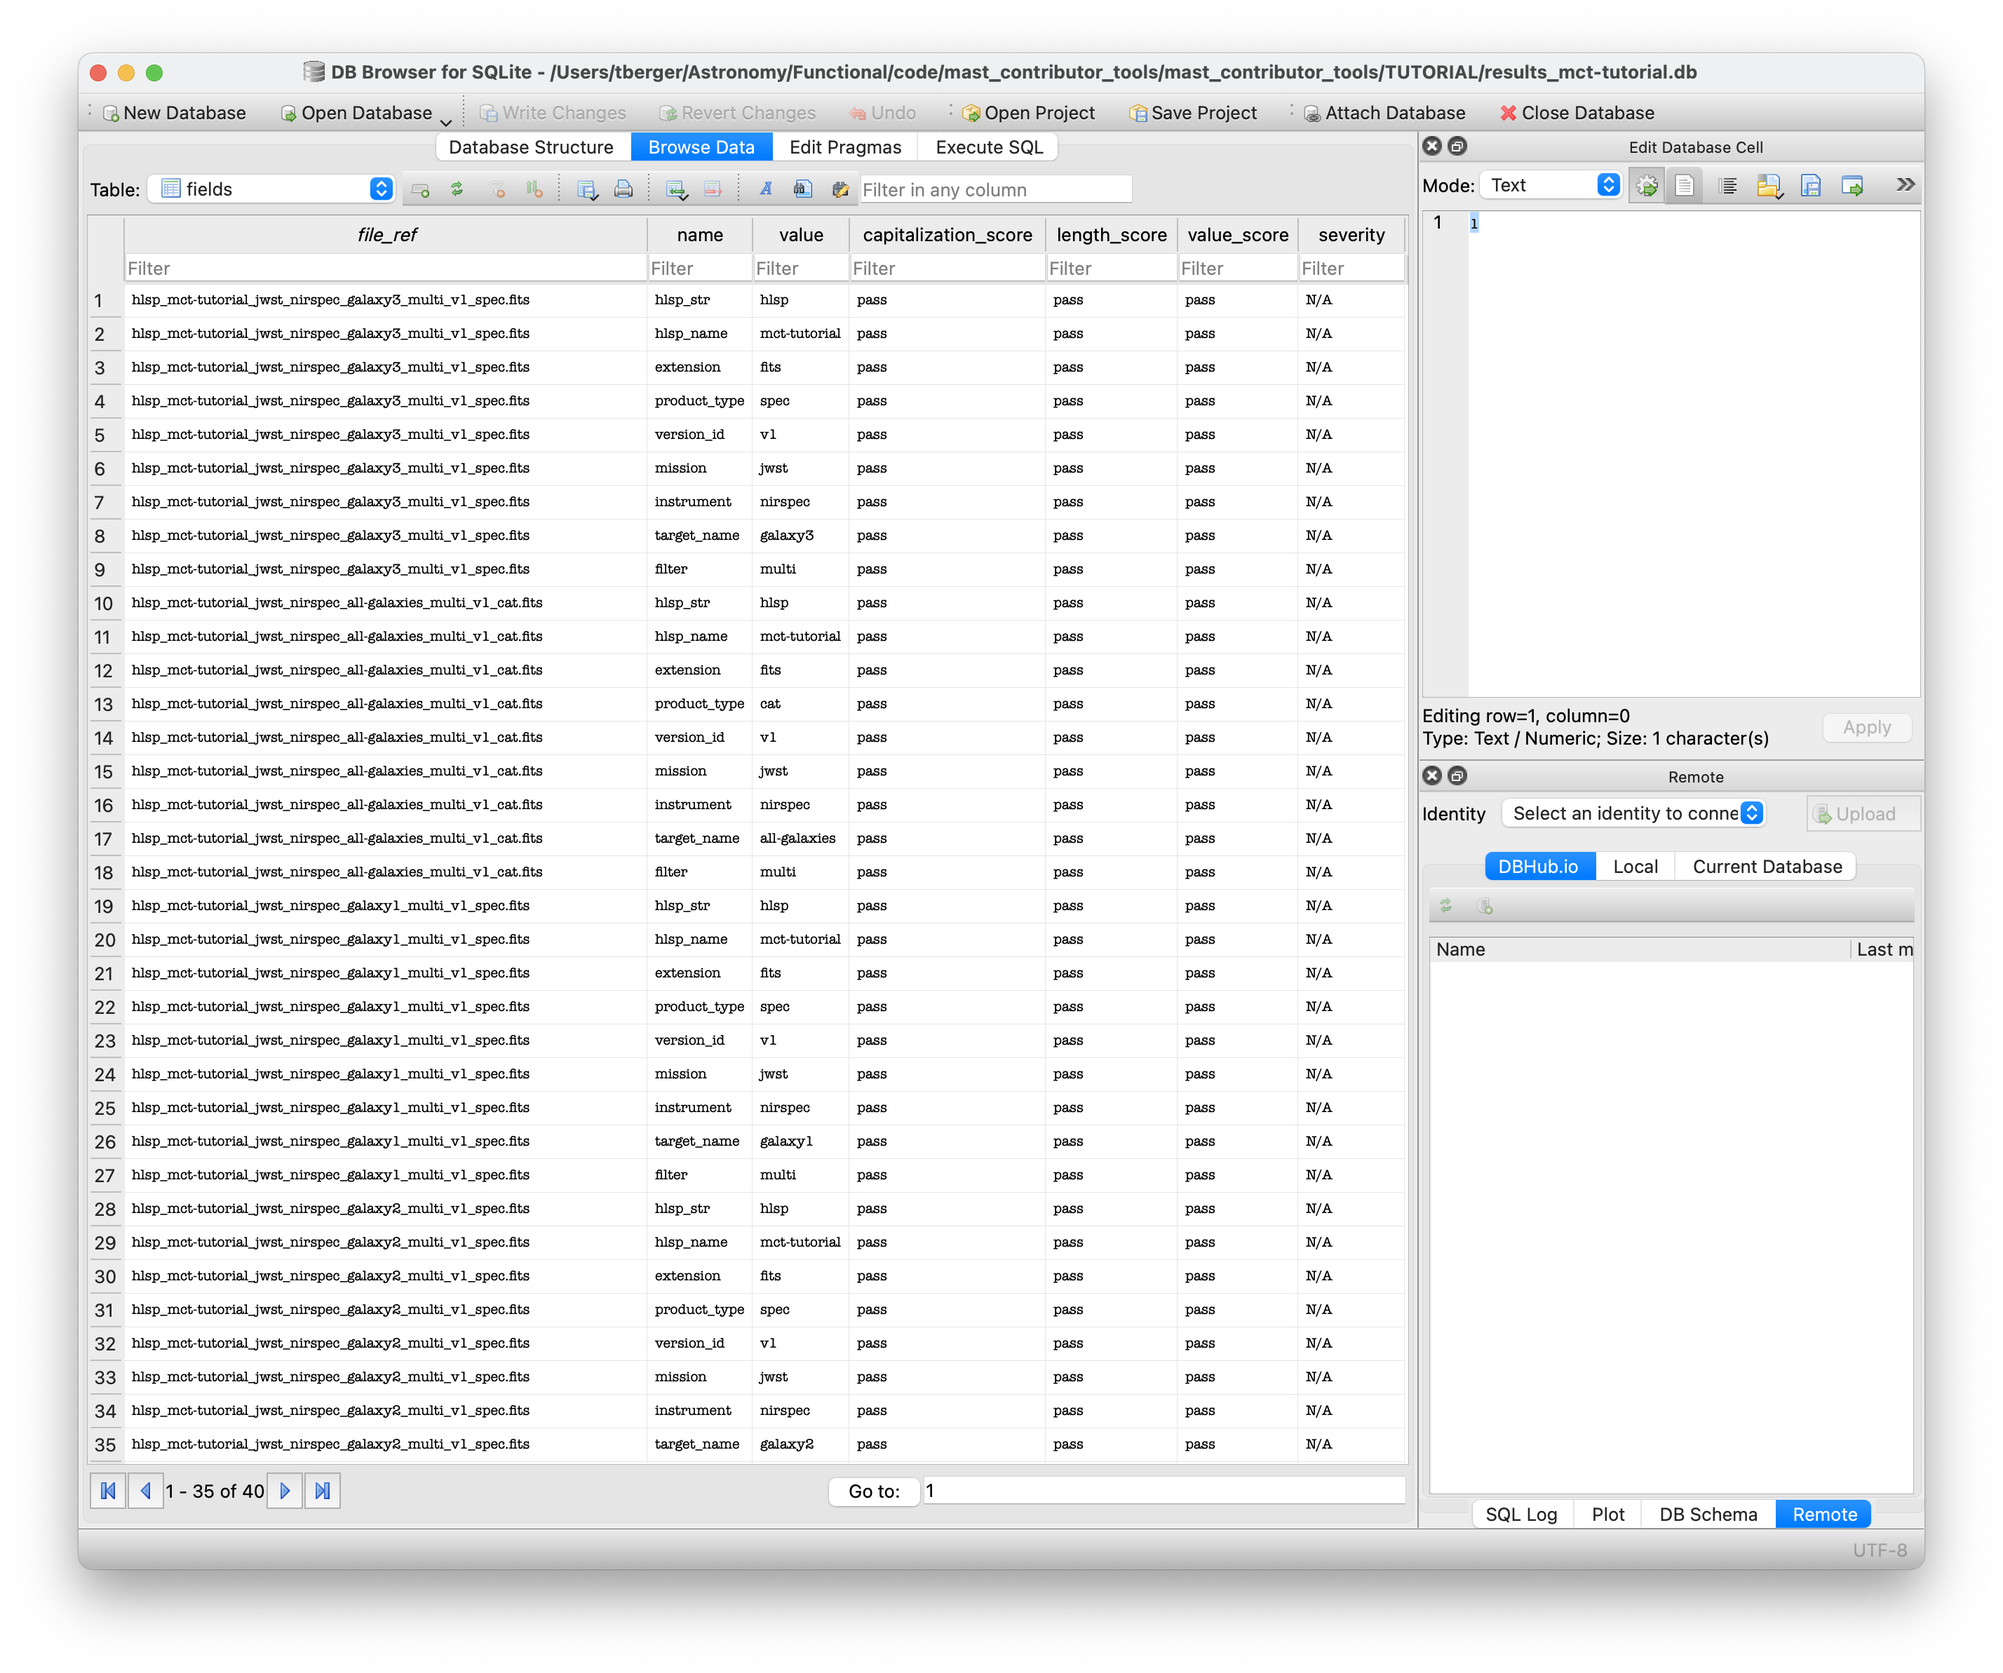
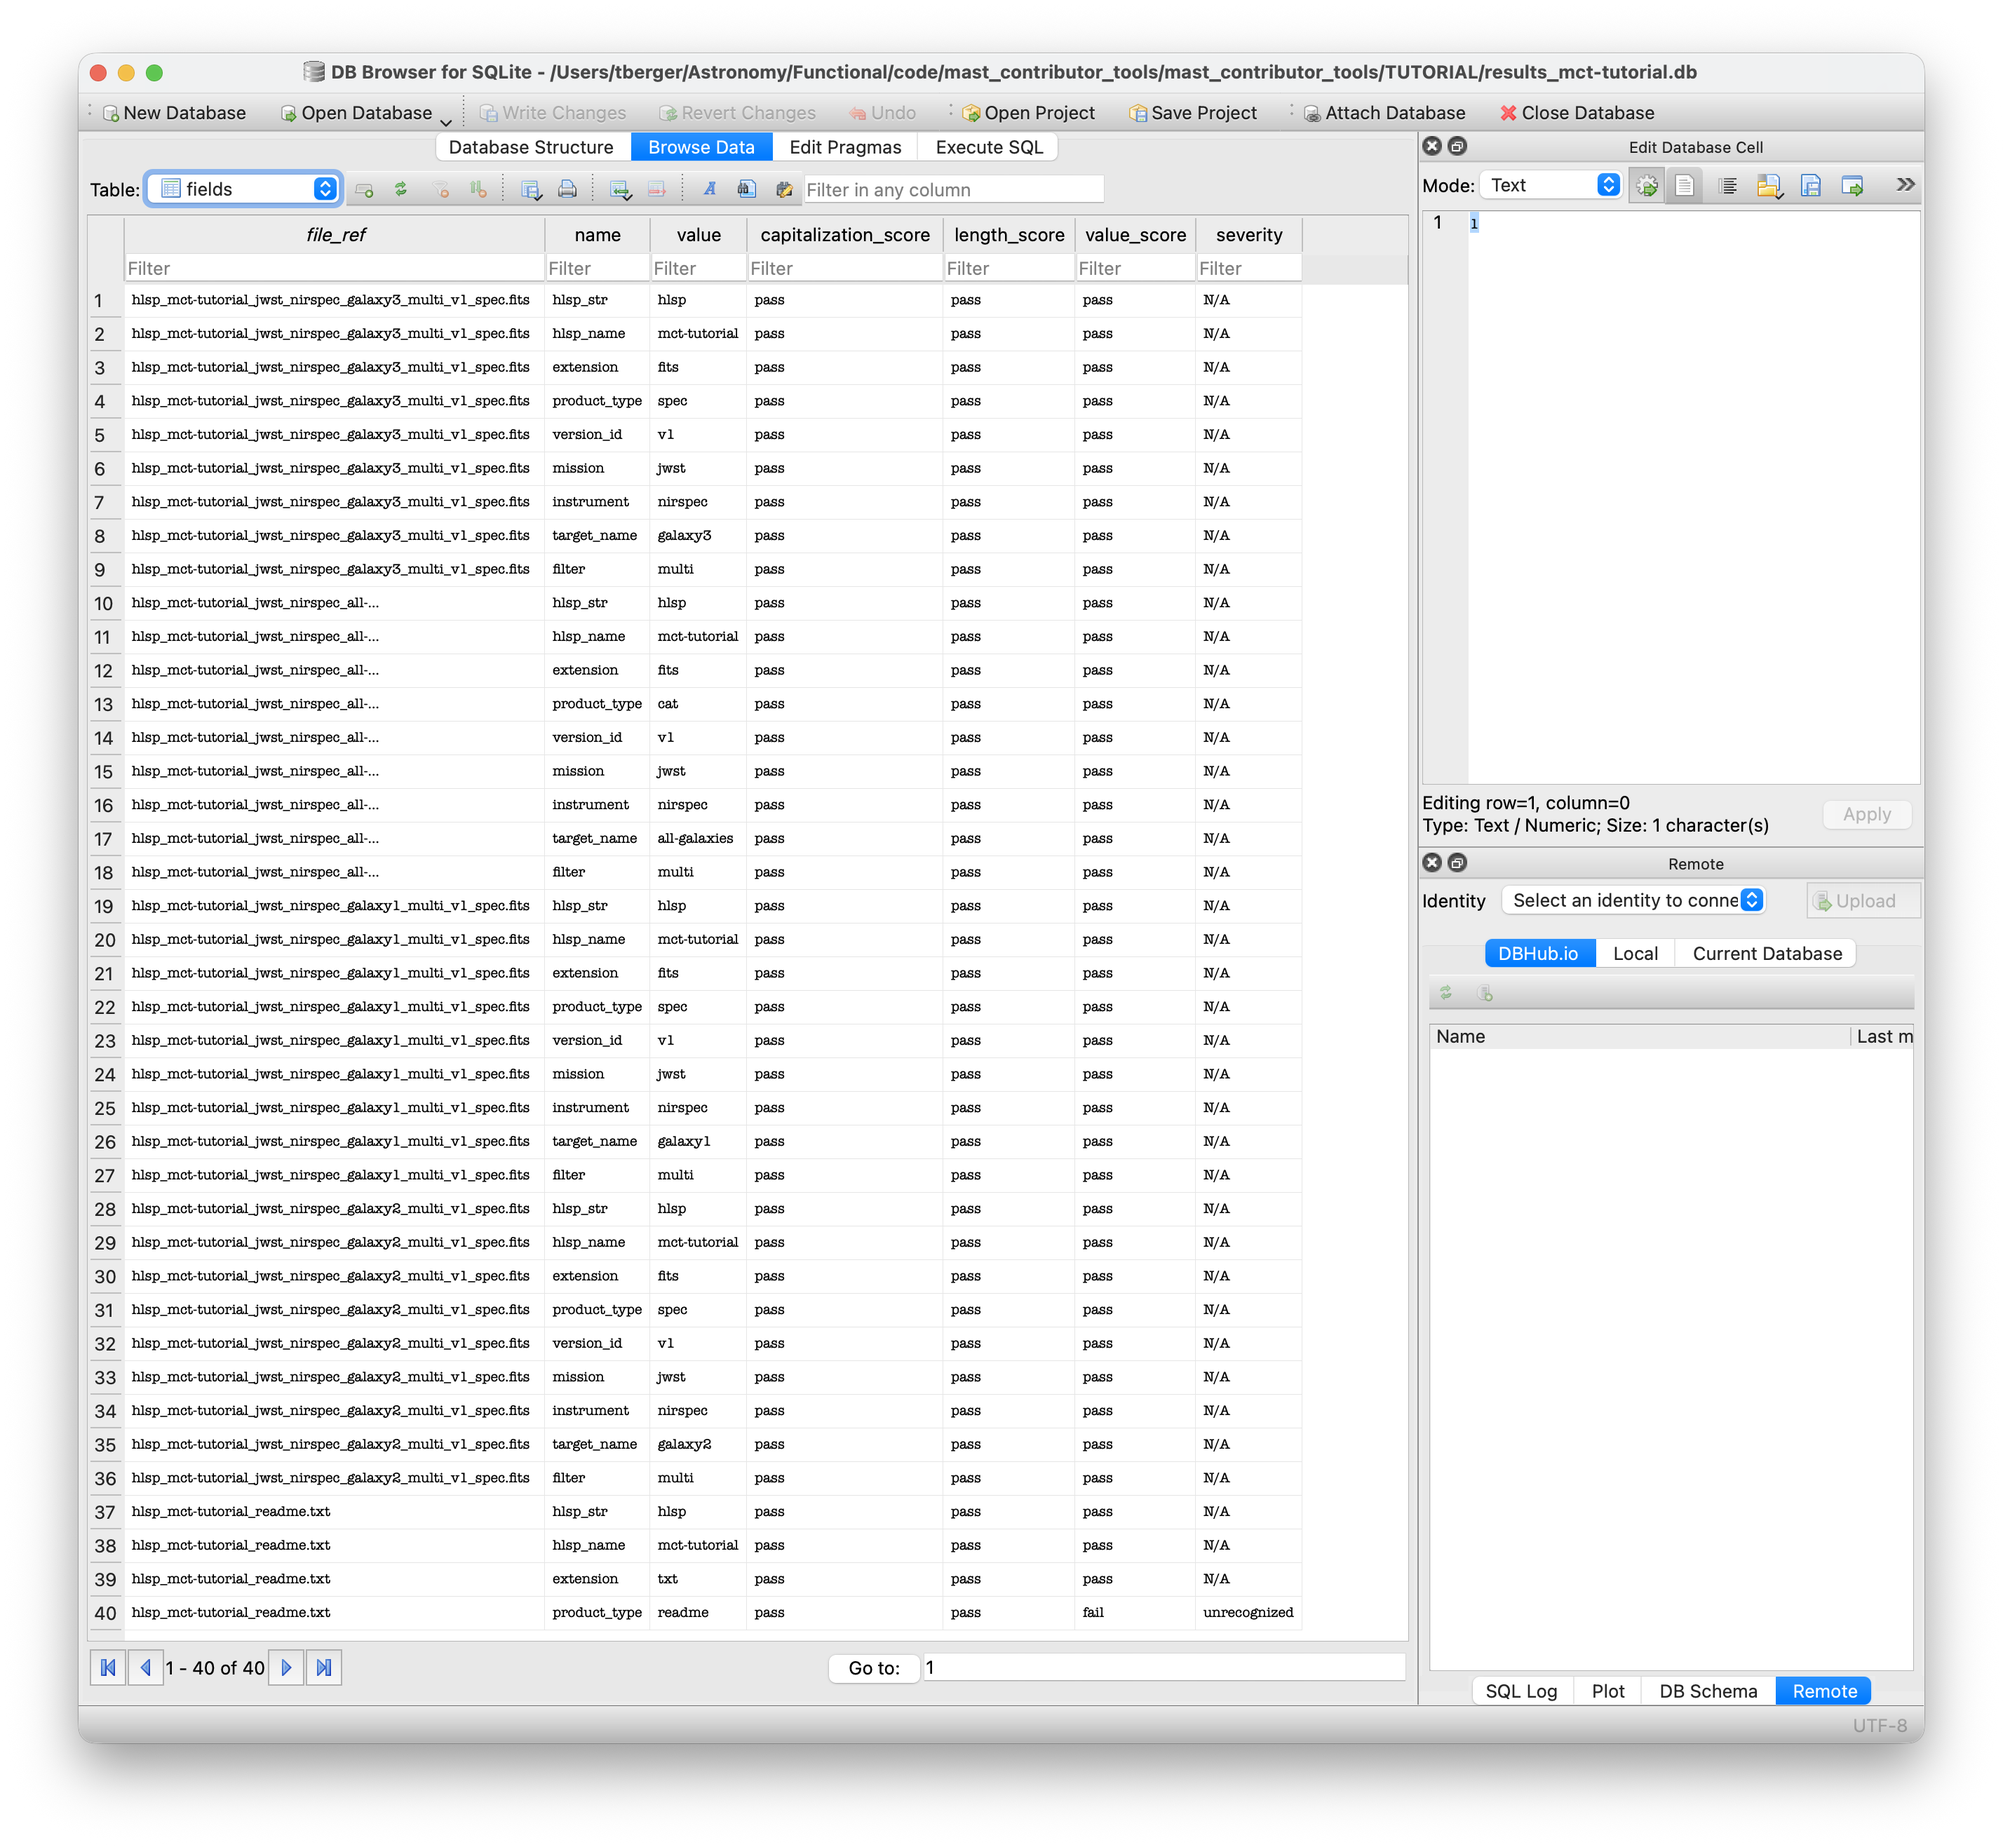
Updated sqltutorial images and fixed some typos.

diff --git a/TUTORIAL/tutorial_readme.md b/TUTORIAL/tutorial_readme.md
@@ -10,7 +10,7 @@ For full installation instructions, refer to the [`README.md`](https://github.co
 pip install .
 ```
 
-You can check if your installation was successful by starting a python session and importing the pacakge:
+You can check if your installation was successful by starting a python session and importing the package:
 
 ```python
 python
@@ -30,7 +30,7 @@ The [Filename Checker Guide](https://github.com/spacetelescope/mast_contributor_
 
 The [`tutorial-data/`](https://github.com/spacetelescope/mast_contributor_tools/blob/main/TUTORIAL/tutorial-data/) folder included in this tutorial contains several example files that you can use for testing. Take a look in that folder and familiarize yourself with its contents! This folder contains 3 different files, for a hypothetical HLSP named "mct-tutorial".
 
-There are three different fake fits files containing spectra for different hypothetical galaixes:
+There are three different fake fits files containing spectra for different hypothetical galaxies:
 
 - `hlsp_mct-tutorial_jwst_nirspec_galaxy1_multi_v1_spec.fits`
 - `hlsp_mct-tutorial_jwst_nirspec_galaxy2_multi_v1_spec.fits`
@@ -86,7 +86,7 @@ Next, here's an example of a file name which fails validation. HLSP filenames ar
 mct check_filename HLSP_mct-tutorial_JWST_nirspec_GALAXY1_multi_v1_spec.fits
 ```
 
-You should see that this filename will recieve:
+You should see that this filename will receive:
 
 ```
 Final Score: FAIL
@@ -97,7 +97,7 @@ But why did it fail? You can use the verbose flag (`-v`) to investigate and lear
 ```shell
 mct check_filename -v HLSP_mct-tutorial_JWST_nirspec_GALAXY1_multi_v1_spec.fits
 ```
-This will print out a lot more information than the previous command, but specifically, it will show that this filename failed because the "`HLSP`", "`JWST`", and "`GALAXY1`" parts recieved a `capitalization_score: fail`.
+This will print out a lot more information than the previous command, but specifically, it will show that this filename failed because the "`HLSP`", "`JWST`", and "`GALAXY1`" parts received a `capitalization_score: fail`.
 
 ## Step 4: Checking multiple file names at once
 
@@ -130,7 +130,7 @@ Use this command to run the filename checker against everything in the [`tutoria
 mct check_filenames mct-tutorial --directory='tutorial-data/'
 ```
 
-You should receieve an output message that 5 files were checked, and that all files passed!
+You should receive an output message that 5 files were checked, and that all files passed!
 
 
 ### Step 4c: Check all file names from a list
@@ -143,7 +143,7 @@ This command reads in a list from the `tutorial_file_list.txt` file, and checks 
 mct check_filenames mct-tutorial --from_file='tutorial_file_list.txt'
 ```
 
-You should receieve an output message that 8 files were checked, and that all files passed!
+You should receive an output message that 8 files were checked, and that all files passed!
 
 
 ### Step 4d. Selecting or Excluding files

diff --git a/docs/filename_check_readme.md b/docs/filename_check_readme.md
@@ -149,6 +149,6 @@ The results are written out in a database file (named `results_<proj-id>.db`). T
 
 * filename - file path, name, number of fields, status
 * fields - field attributes for each filename, and evaluation
-* potential_problems (view) - selects all instances where an 'fail', or 'needs review' value was identified. Non-fatal warnings and unrecognized values are not always real problems; these will be reviewed by MAST staff.
+* problems (view) - selects all instances where an 'fail', or 'needs review' value was identified. Non-fatal warnings and unrecognized values are not always real problems; these will be reviewed by MAST staff.
 
-The **potential_problems** view may be filtered to select only fatal errors.
+The **problems** view may be filtered to select only fatal errors.
